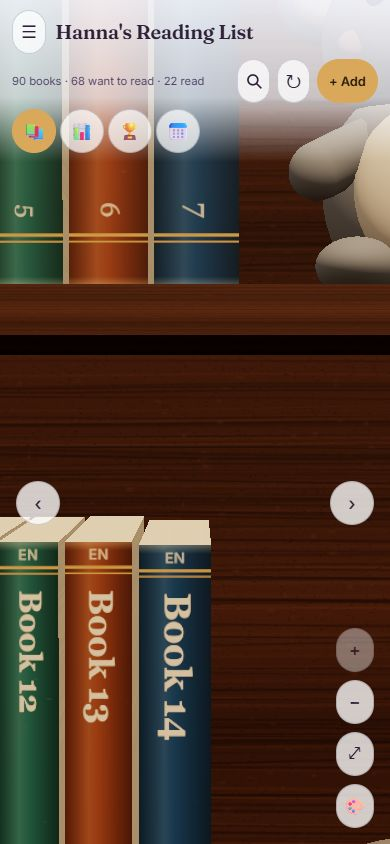
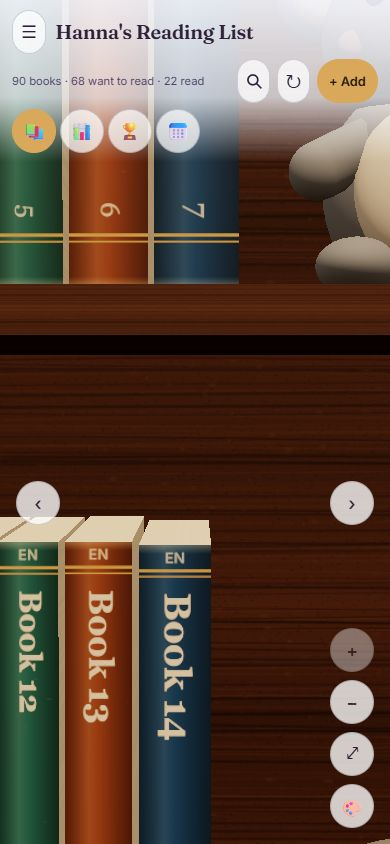
T-0025: no hover on a dimmed ‹ ›, zoom buttons 44 × 44
From the UX review: a dimmed ‹ › keeps the zoom buttons' fill and border on
hover, and the four zoom buttons drop the `icon` class so they are 44 × 44
like ‹ ›. New hover screenshot, three re-taken, a lesson and a Log line.

Changed region(s): [[0.8308, 0.7085, 0.9538, 0.9858], [0.9846, 0.7085, 1.0, 0.7393]]

diff --git a/src/routes/index.tsx b/src/routes/index.tsx
@@ -480,16 +480,16 @@ function Shelf({ account, offline, onSignOut, onExpired }: ShelfProps) {
         {!offShelf && !selected && books.length > 0 && <ShelfPanButtons pan={pan} onStep={panStep} />}
         {!offShelf && !selected && books.length > 0 && (
           <div className="zoom-controls" role="group" aria-label="Zoom" {...{ [SHELF_CONTROLS_ATTR]: '' }}>
-            <button className="btn icon" aria-label="Zoom in" title="Zoom in (Ctrl + scroll)" disabled={zoom >= ZOOM_MAX} onClick={() => setZoom(clampZoom(zoom * 1.4))}>
+            <button className="btn" aria-label="Zoom in" title="Zoom in (Ctrl + scroll)" disabled={zoom >= ZOOM_MAX} onClick={() => setZoom(clampZoom(zoom * 1.4))}>
               +
             </button>
-            <button className="btn icon" aria-label="Zoom out" title="Zoom out" disabled={zoom <= 1} onClick={() => setZoom(clampZoom(zoom / 1.4))}>
+            <button className="btn" aria-label="Zoom out" title="Zoom out" disabled={zoom <= 1} onClick={() => setZoom(clampZoom(zoom / 1.4))}>
               −
             </button>
-            <button className="btn icon" aria-label="Show the whole bookcase" title="Show the whole bookcase" disabled={zoom <= 1} onClick={() => setZoom(1)}>
+            <button className="btn" aria-label="Show the whole bookcase" title="Show the whole bookcase" disabled={zoom <= 1} onClick={() => setZoom(1)}>
               ⤢
             </button>
-            <button className="btn icon" aria-label="Your room" title="Your room: wood, wallpaper, decorations" aria-expanded={roomOpen} onClick={() => setRoomOpen(!roomOpen)}>
+            <button className="btn" aria-label="Your room" title="Your room: wood, wallpaper, decorations" aria-expanded={roomOpen} onClick={() => setRoomOpen(!roomOpen)}>
               🎨
             </button>
           </div>

diff --git a/src/styles.css b/src/styles.css
@@ -848,6 +848,11 @@ textarea.input {
 .shelf-pan .btn[aria-disabled='true']:active {
   transform: none;
 }
+/* dimmed means no hover change: keep the zoom buttons' fill and border (beats .btn:hover) */
+.shelf-pan .btn[aria-disabled='true']:hover {
+  background: rgba(255, 255, 255, 0.78);
+  border-color: rgba(45, 32, 56, 0.2);
+}
 .search-clear {
   white-space: nowrap;
   max-width: 14rem;

diff --git a/docs/lessons.md b/docs/lessons.md
@@ -16,3 +16,4 @@ into a proposed rule change for the harness.
 - 2026-11-22 T-0019 developer: the UX review sent back the swatch names: `colourName` named colours by hue alone, so the muted warm colours that darkened covers mostly give (a dusty brown-red, tan, saddle brown) came out as "Red" and "Orange". When code puts a name on something for people, test it on real data (here the real cover palettes from the screenshots), not only on clean textbook colours.
 - 2026-11-22 T-0020 developer: the UX review sent back the Arrange bar covering the top of ★ Favourites. I had seen it in my own screenshots, called it "already there before, for the architect" and moved the drag shot to row 2 to work around it, though the new tools and the most likely drop line were behind it. When something in your own screenshots hides what the task adds, fix it in the task (here one CSS line: a sticky `top` inside a scroll container counts from inside its padding), don't frame the shots around it.
 - 2026-11-22 T-0023 developer: the UX review sent back the pile switch's wrapped state: the design allowed it to wrap, but `.segmented`'s 999px pill radius turns a two-row box into a blob with a button sticking out, and I only screenshotted widths where it fit (with 4 px to spare). When a layout has a fallback (wrapping, overflow, a second row), make it happen once in the dev server (a narrower phone or larger text) and screenshot it, not only the widths where it doesn't trigger.
+- 2026-11-22 T-0025 developer: the UX review sent back two CSS slips: a dimmed ‹ › still changed on hover, because the base `.btn:hover:not(:disabled)` doesn't know `aria-disabled` and outranks a two-class rule; and the zoom buttons I was told to copy were 38 px, which I measured and only logged. When a design asks for "exactly like X", copy X's measured result, and fix X when it misses the design's own size; and when "disabled" is `aria-disabled`, hover the dimmed control in the dev server and read its computed style, since `:disabled` rules won't cover it.

diff --git a/docs/tasks/T-0025-zoom-sideways.md b/docs/tasks/T-0025-zoom-sideways.md
@@ -633,3 +633,13 @@ To be written by the tester.
   hover; (2) the zoom buttons 44 × 44 like ‹ › (D-0020). Accepted choices 16, 17, 18 and 20.
   Follow-up for the architect: on the phone, a book opened while zoomed in shows no book in front
   and doesn't dim the room (also on main), as its own task next. Handed back to the developer.
+- 2026-11-22 developer: fixed both must-fixes. (1) `.shelf-pan .btn[aria-disabled='true']:hover`
+  keeps the zoom buttons' fill and border: hovering the dimmed › reads `rgba(255, 255, 255, 0.78) |
+  rgba(45, 32, 56, 0.2) | 0.5`, the same as before hovering (the ready › still turns `#fff`); new
+  shot `pan-right-end-hover-1280-lavender`. (2) The four zoom buttons dropped `icon`, so
+  `.zoom-controls .btn` sizes them: all six buttons measure 44 × 44 at 1280 and 390 (zoom 1 and 3),
+  › lines up with the zoom column (x 1220) and stays clear of it (70 px at 1280, 103 px at 390);
+  re-took `pan-middle-1280-lavender`, `pan-middle-390-lavender`, `zoom-1-390-lavender`. 14 checks on
+  `vite dev --port 3136` (no backend), all passed, no console errors; vite stopped, 3136 free.
+  `pnpm test`: 90 files passed, 1 skipped, 865 tests passed, 9 skipped; `tsc --noEmit` clean;
+  `harness check` all ✓. Lesson added. Handed back to the UX designer.
